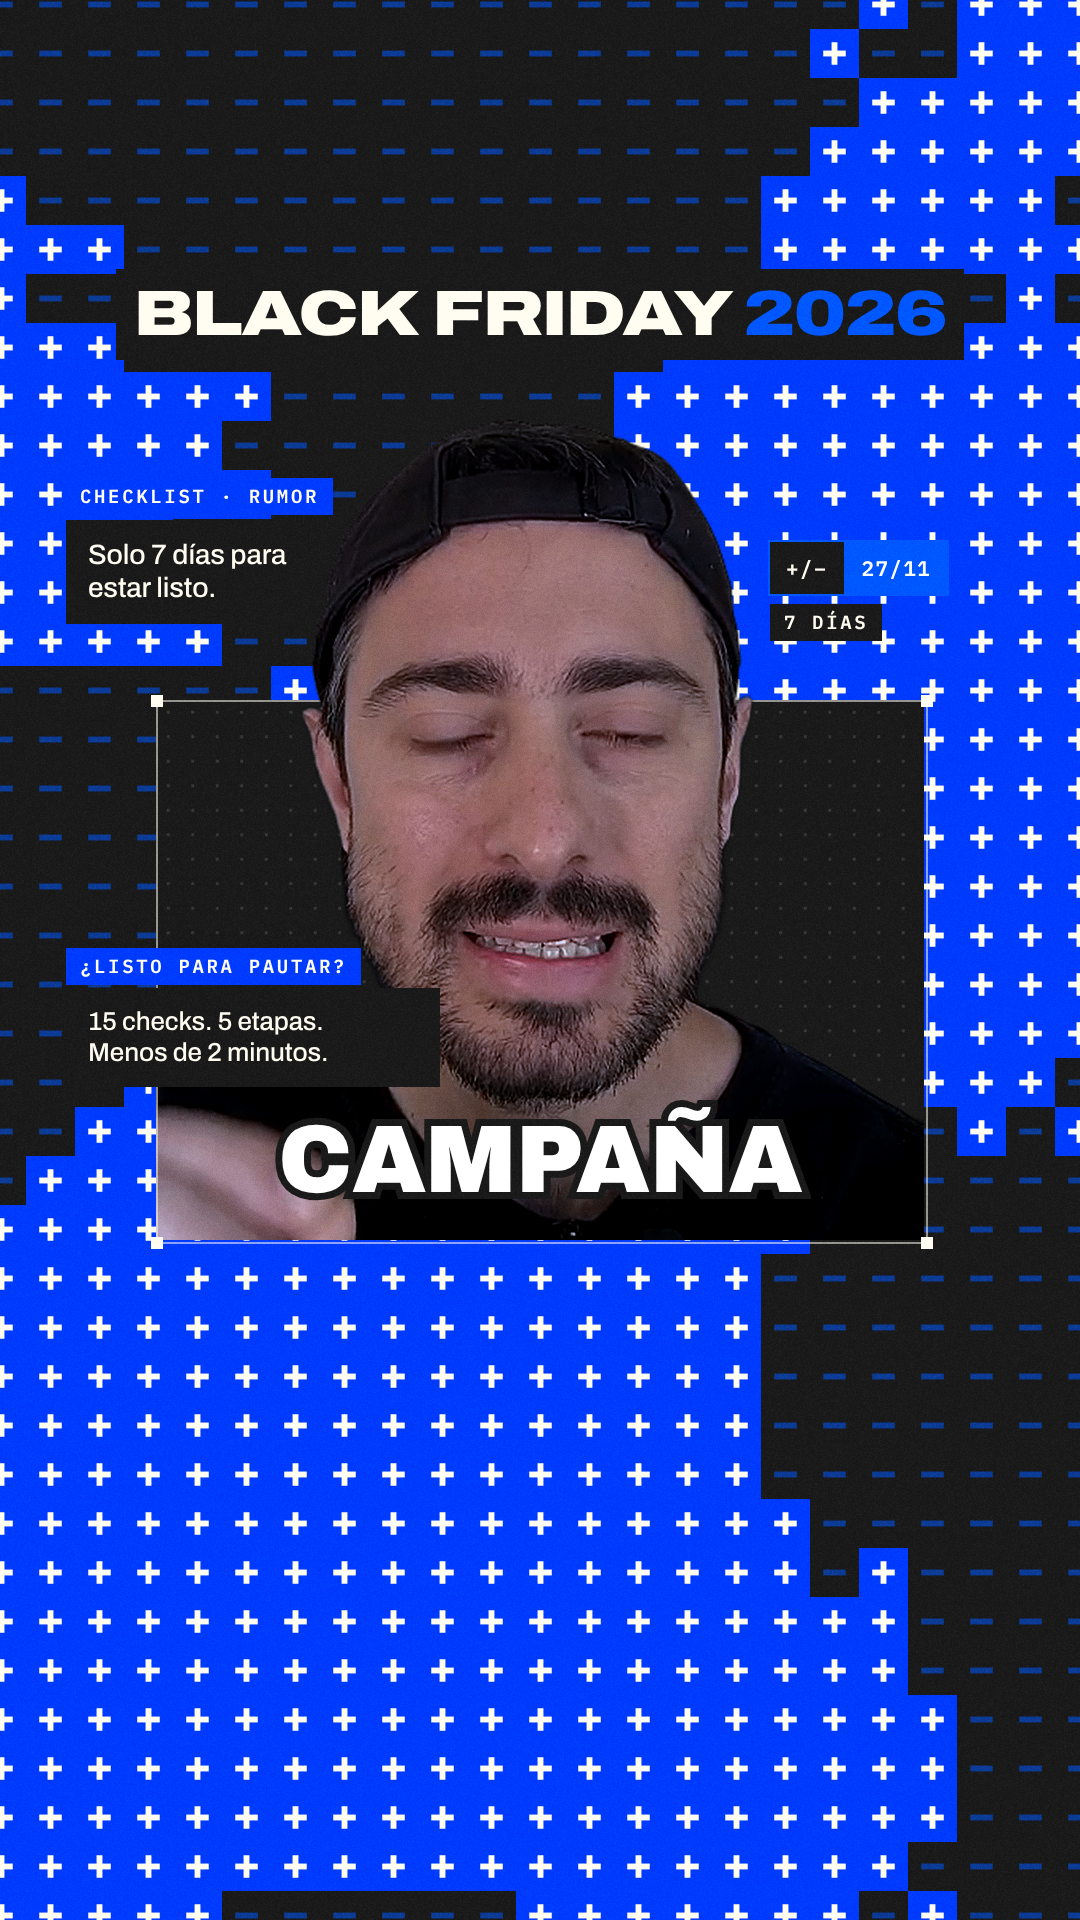
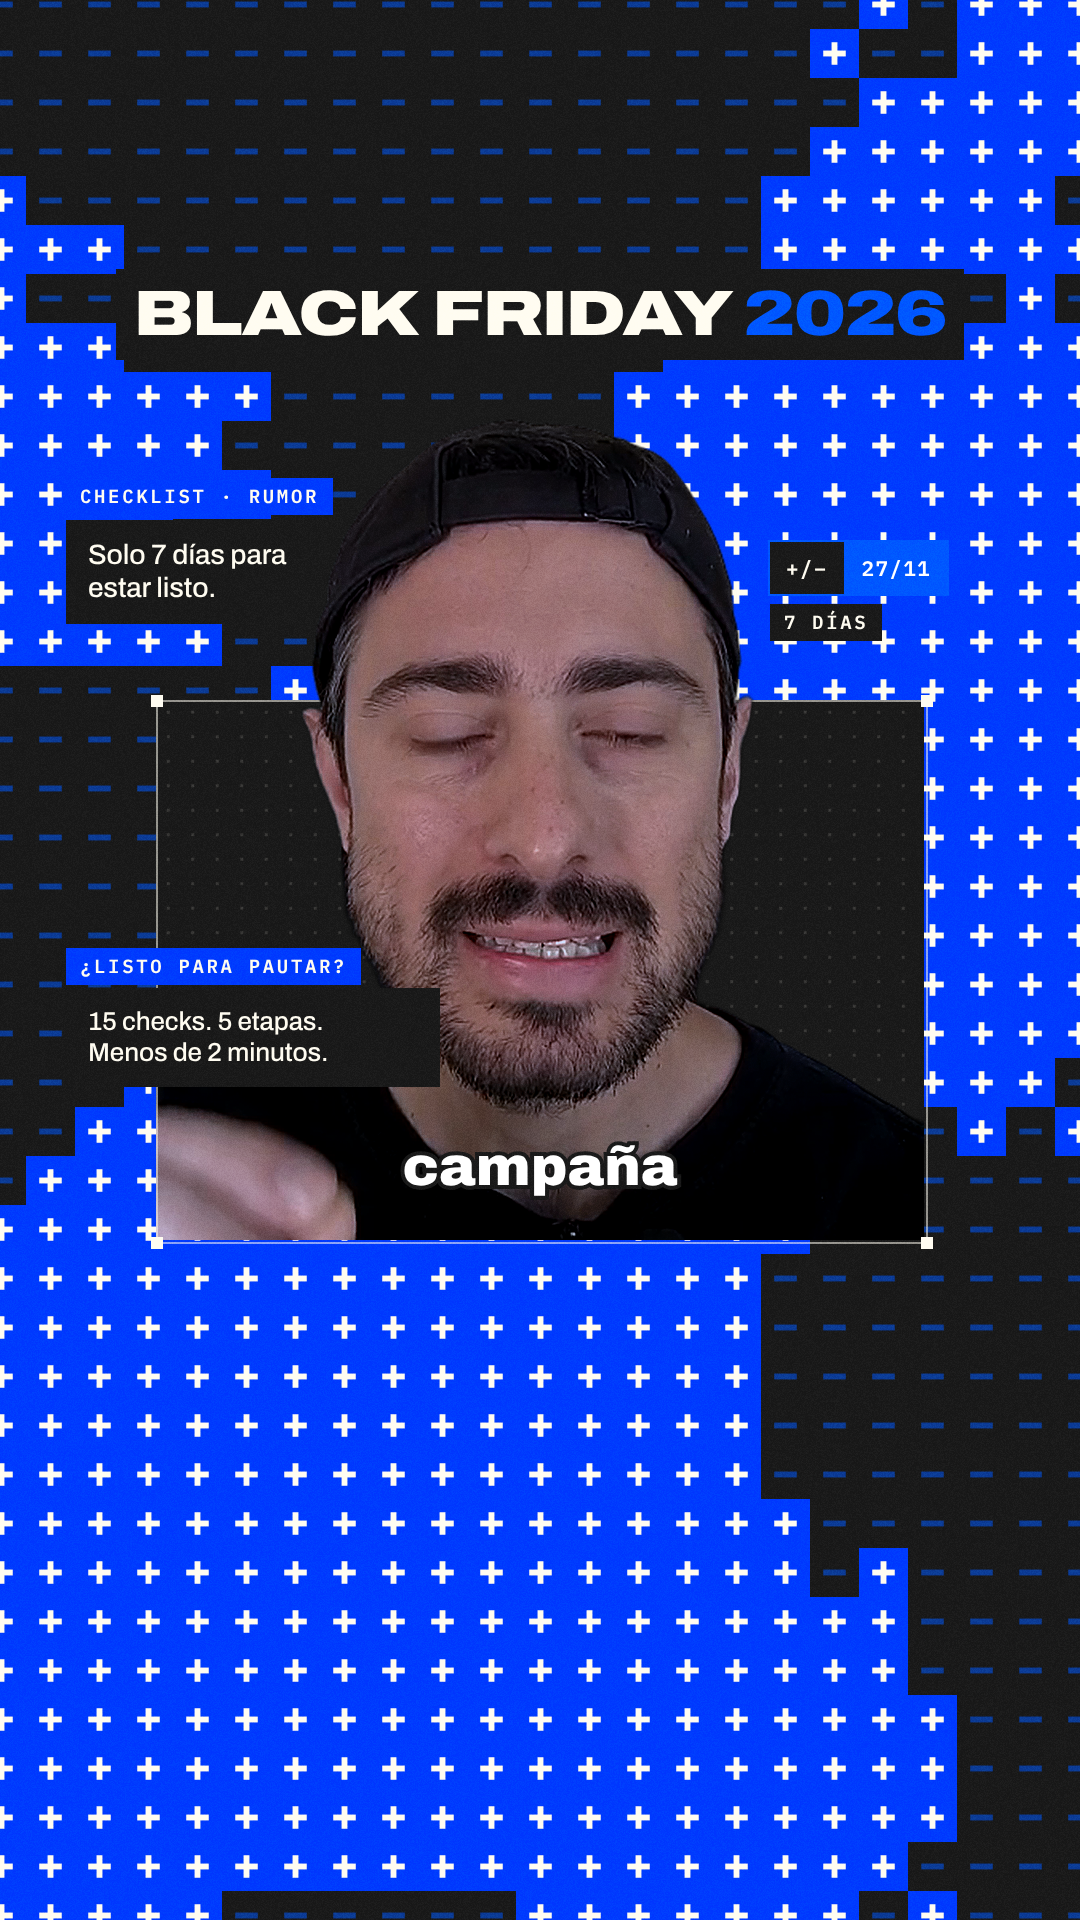
Reel BF: subtítulos a 55 px en minúscula
Claude-Session: https://claude.ai/code/session_012Fnto9jpQe32MrKx8Y2jJE

Changed region(s): [[0.2444, 0.5625, 0.7639, 0.625]]

diff --git a/video/reel/prueba.html b/video/reel/prueba.html
@@ -40,8 +40,9 @@
   #sujeto{position:absolute;left:156px;top:44px;width:768px;clip-path:inset(0 0 186px 0)}
 
   /* Subtítulo: una palabra, posición fija */
-  .sub{position:absolute;left:0;right:0;top:1112px;text-align:center;font-family:"Archivo Black","Arial Black",Arial,sans-serif;font-size:96px;line-height:1;
-    text-transform:uppercase;color:#fff;letter-spacing:-.01em;-webkit-text-stroke:14px var(--black);paint-order:stroke fill;text-shadow:0 6px 0 var(--black)}
+  /* Subtítulo: una palabra, posición fija. 55 px = tamaño 55 de Premiere en secuencia 1080×1920 */
+  .sub{position:absolute;left:0;right:0;top:1140px;text-align:center;font-family:"Archivo Black","Arial Black",Arial,sans-serif;font-size:55px;line-height:1;
+    color:#fff;-webkit-text-stroke:8px var(--black);paint-order:stroke fill;text-shadow:0 4px 0 var(--black)}
 
   #grain{position:absolute;inset:0;width:100%;height:100%;mix-blend-mode:soft-light;opacity:.22;pointer-events:none}
 
@@ -71,7 +72,7 @@
   <div class="box" style="left:66px;top:988px;width:330px;font-size:26px">15 checks. 5 etapas.<br>Menos de 2 minutos.</div>
 
   <div class="title"><span>Black Friday <em>2026</em></span></div>
-  <div class="sub" id="sub">Campaña</div>
+  <div class="sub" id="sub">campaña</div>
 
   <canvas id="grain" width="1080" height="1920"></canvas>
 
